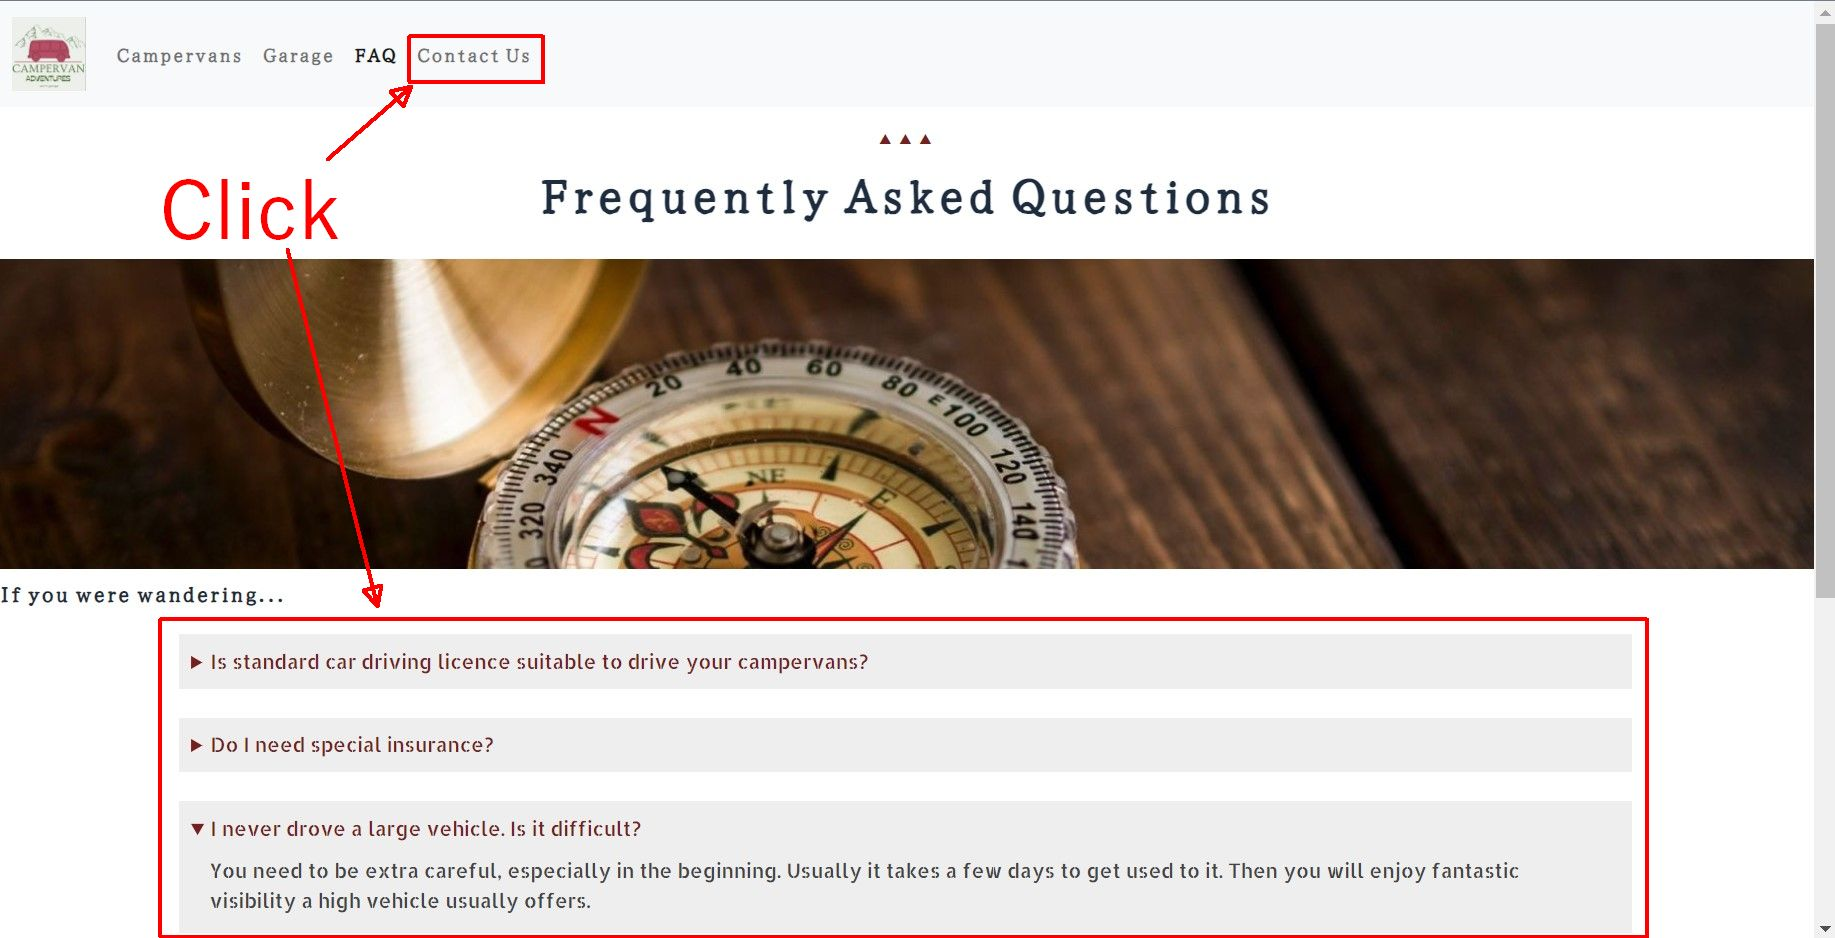
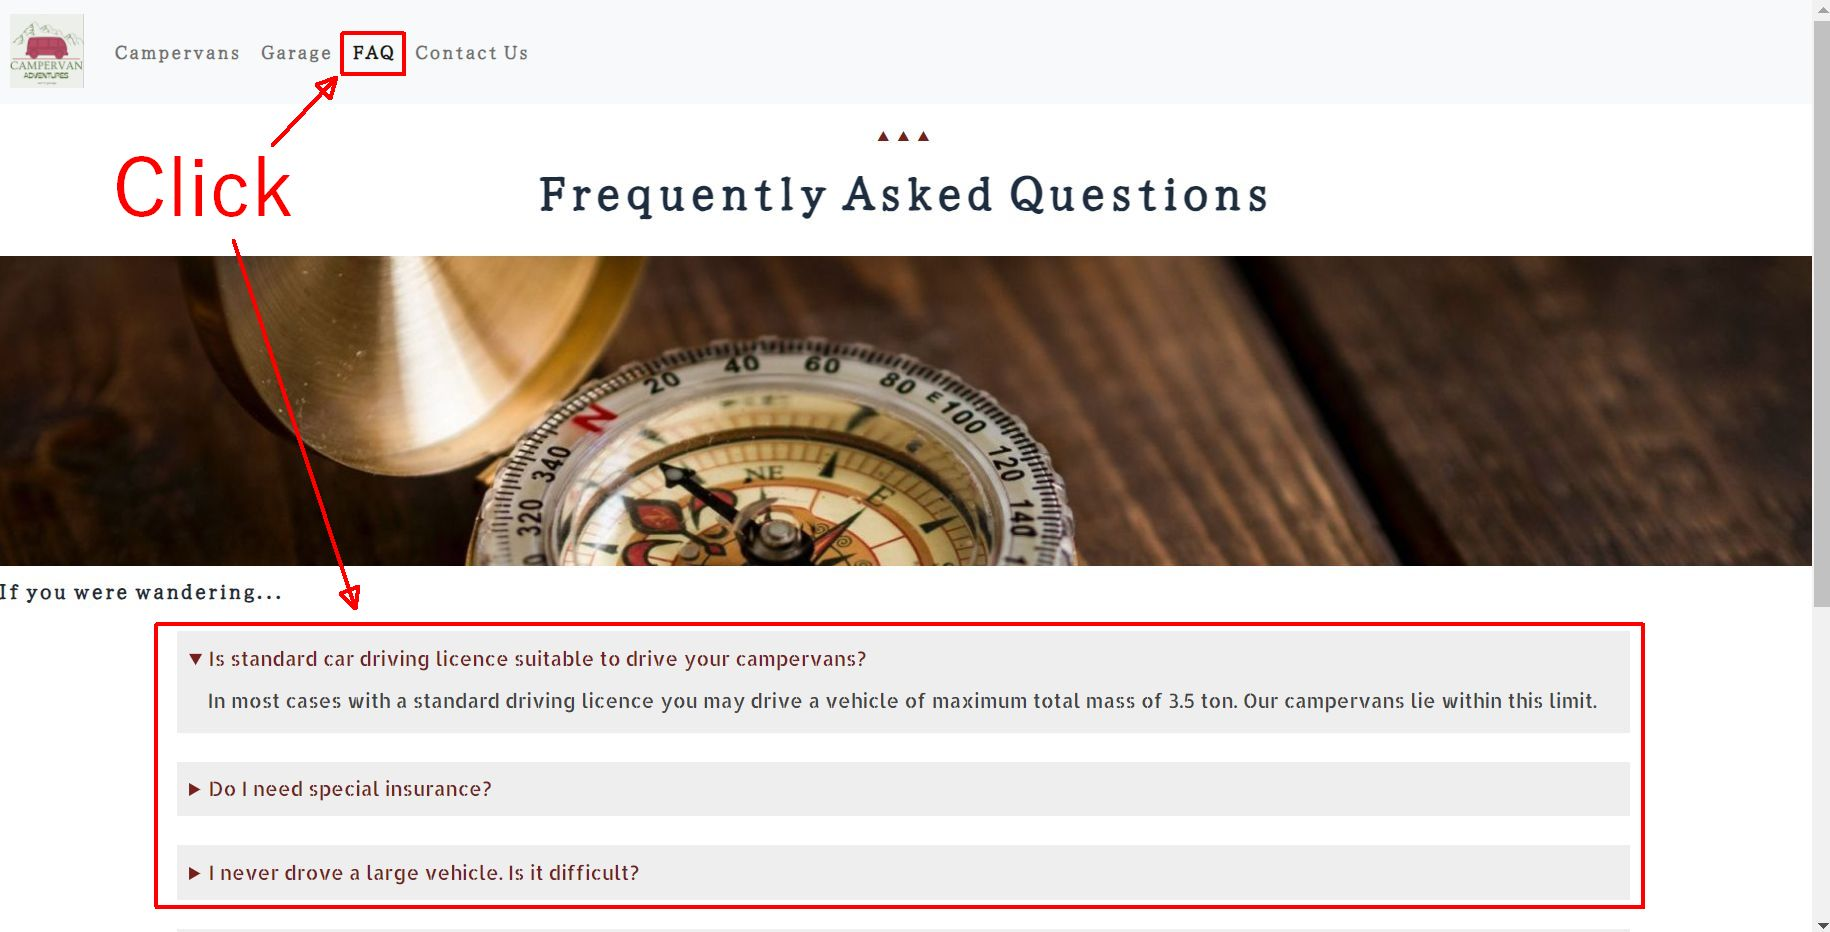
docs: Minor changes to text and replace accordion screenshot in README

diff --git a/README.md b/README.md
@@ -148,7 +148,7 @@ Visitor wants to find out about spending holidays in a campervan with the possib
 
 ## Functional specifications
 
-Visitor uses site navigation to find the information presented on the webpage. 
+Visitor uses site navigation to find the information presented on the website. 
 
 Multiple photographs need to be presented alongside campervan's description.
 
@@ -304,7 +304,7 @@ Site consists of five pages with following features:
 
 ### Accordion
 - Accordion utilizes the disclosure summary element.
-- Easy and intuitive method for presenting considerable amount of information in an orderly fashion. This allows to clarify most common questions.
+- Easy and intuitive method for presenting considerable amount of information in an orderly fashion. This allows to clarify most common questions addressed on FAQ page.
 - User stories covered: 1, 4.
 <details>
     <summary> Screenshot </summary>
